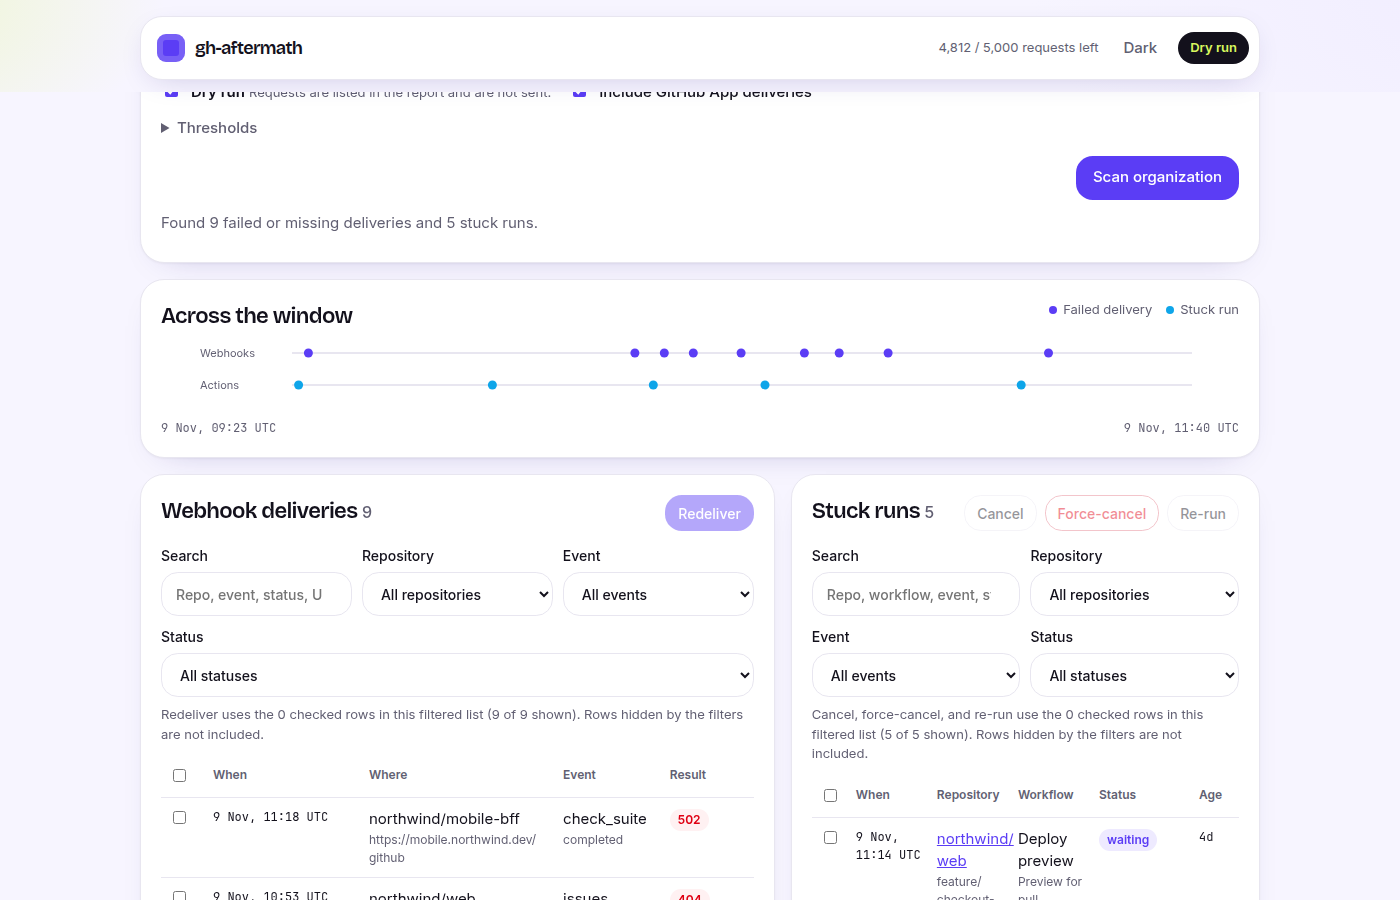
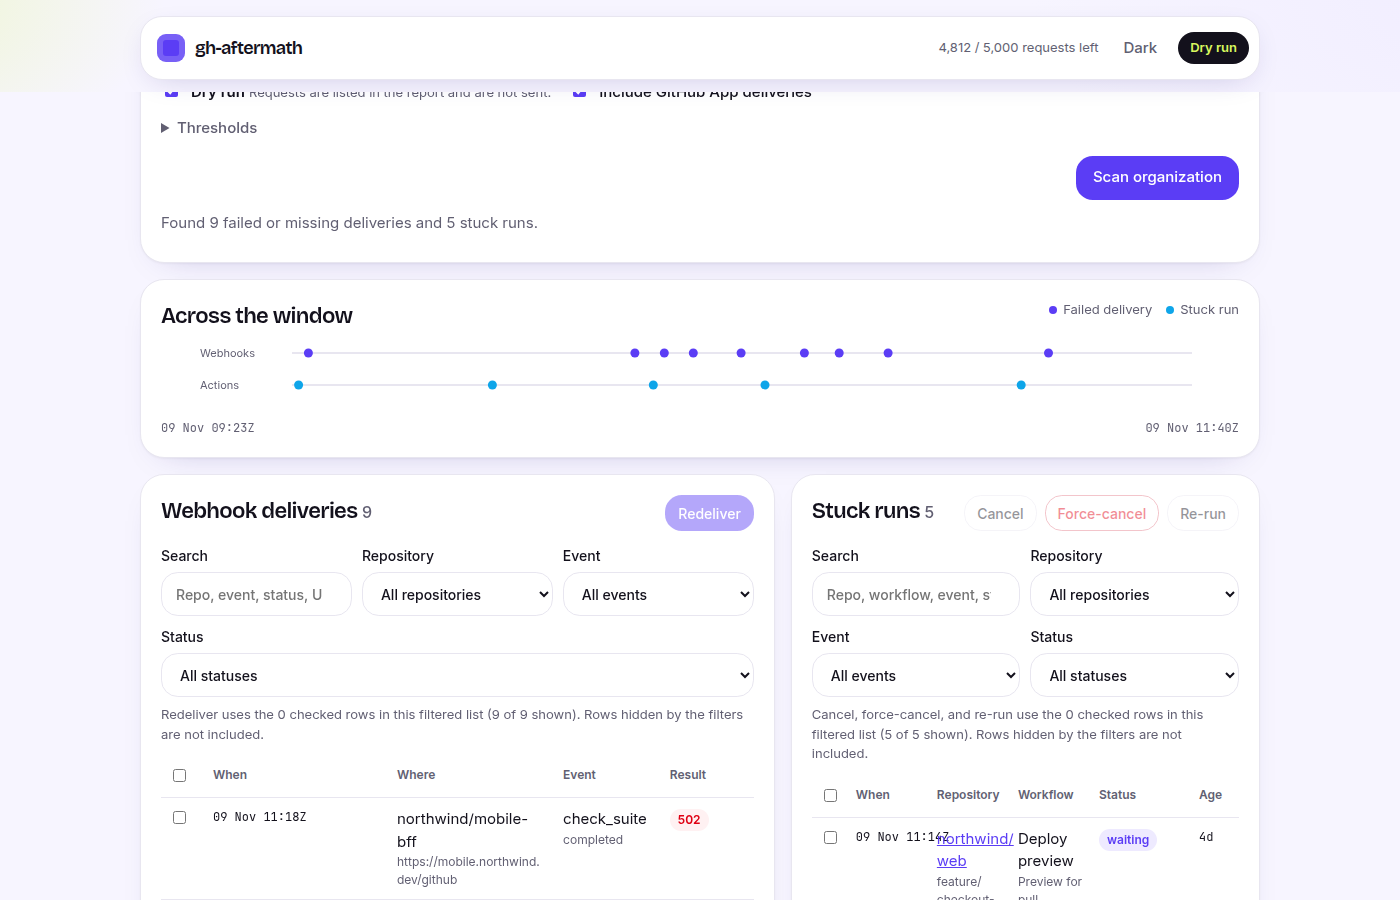
fix: keep out-of-window deliveries out of the demo scan
The demo gateway now applies the same window as the live client, and a scan refuses to redeliver a delivery that was not in that window. Times are printed as explicit UTC stamps.

diff --git a/tests/server.test.ts b/tests/server.test.ts
@@ -80,6 +80,19 @@ describe("demo server", () => {
     expect(body.markdown).toContain("Failed or missing deliveries: 9");
     expect(body.deliveries.some((delivery: { id: number }) => delivery.id === 801)).toBe(false);
     expect(body.deliveries.some((delivery: { id: number }) => delivery.id === 510)).toBe(false);
+    const from = Date.parse("2026-11-09T09:23:00.000Z");
+    const to = Date.parse("2026-11-09T11:40:00.000Z");
+    for (const delivery of body.deliveries as { deliveredAt: string }[]) {
+      const time = Date.parse(delivery.deliveredAt);
+      expect(time).toBeGreaterThanOrEqual(from);
+      expect(time).toBeLessThanOrEqual(to);
+    }
+    for (const run of body.runs as { createdAt: string; runStartedAt: string | null }[]) {
+      const time = Date.parse(run.runStartedAt || run.createdAt);
+      expect(time).toBeGreaterThanOrEqual(from);
+      expect(time).toBeLessThanOrEqual(to);
+    }
+    expect(body.deliveries.some((delivery: { deliveredAt: string }) => delivery.deliveredAt.startsWith("2026-11-09T10:53"))).toBe(true);
   });
 
   it("keeps the November 9 Actions window separate from the webhook window", async () => {
@@ -99,6 +112,36 @@ describe("demo server", () => {
     expect(body.counts).toMatchObject({ failedDeliveries: 2, stuckRuns: 2 });
     expect(body.runs.map((run: { id: number }) => run.id).sort()).toEqual([1009, 1010]);
     expect(body.deliveries.map((delivery: { id: number }) => delivery.id).sort()).toEqual([510, 511]);
+    const from = Date.parse("2026-11-09T18:07:00.000Z");
+    const to = Date.parse("2026-11-09T18:59:00.000Z");
+    for (const delivery of body.deliveries as { deliveredAt: string }[]) {
+      const time = Date.parse(delivery.deliveredAt);
+      expect(time).toBeGreaterThanOrEqual(from);
+      expect(time).toBeLessThanOrEqual(to);
+    }
+    for (const run of body.runs as { createdAt: string; runStartedAt: string | null }[]) {
+      const time = Date.parse(run.runStartedAt || run.createdAt);
+      expect(time).toBeGreaterThanOrEqual(from);
+      expect(time).toBeLessThanOrEqual(to);
+    }
+  });
+
+  it("does not redeliver a delivery outside the scanned window", async () => {
+    const application = app();
+    await scan(application);
+    const refused = await application.request("/api/execute", {
+      method: "POST",
+      headers: { "content-type": "application/json" },
+      body: JSON.stringify({
+        dryRun: true,
+        operations: [
+          { type: "redeliver", scope: "repo", owner: "northwind", repo: "checkout-api", hookId: 11, deliveryId: 510 },
+        ],
+      }),
+    });
+    const body = await refused.json();
+    expect(refused.status).toBe(400);
+    expect(body.error).toMatch(/outside the scanned window/);
   });
 
   it("includes the dated ping only when the window covers it", async () => {

diff --git a/src/demo/gateway.ts b/src/demo/gateway.ts
@@ -1,6 +1,8 @@
+import { isWithinWindow } from "../core/time.js";
 import type {
   RateLimitSnapshot,
   RawDelivery,
+  RawRun,
   RecoveryClient,
   RedeliverTarget,
   RunTarget,
@@ -36,29 +38,38 @@ export function createDemoGateway(options: DemoGatewayOptions = {}): ScanClient 
         .filter((hook) => hook.scope === "repo" && hook.owner === owner && hook.repo === repo)
         .map((hook) => ({ ...hook, events: [...hook.events] }));
     },
-    async listOrgDeliveries(_org, hookId, _window: TimeWindow) {
-      return state.deliveries.filter((delivery) => delivery.scope === "org" && delivery.hookId === hookId).map((d) => ({ ...d }));
+    async listOrgDeliveries(_org, hookId, window: TimeWindow) {
+      return state.deliveries
+        .filter(
+          (delivery) =>
+            delivery.scope === "org" && delivery.hookId === hookId && isWithinWindow(delivery.deliveredAt, window),
+        )
+        .map((delivery) => ({ ...delivery }));
     },
-    async listRepoDeliveries(owner, repo, hookId) {
+    async listRepoDeliveries(owner, repo, hookId, window) {
       return state.deliveries
         .filter(
           (delivery) =>
             delivery.scope === "repo" &&
             delivery.hookId === hookId &&
             delivery.owner === owner &&
-            delivery.repo === repo,
+            delivery.repo === repo &&
+            isWithinWindow(delivery.deliveredAt, window),
         )
         .map((delivery) => ({ ...delivery }));
     },
-    async listAppDeliveries() {
-      return state.deliveries.filter((delivery) => delivery.scope === "app").map((delivery) => ({ ...delivery }));
+    async listAppDeliveries(window) {
+      return state.deliveries
+        .filter((delivery) => delivery.scope === "app" && isWithinWindow(delivery.deliveredAt, window))
+        .map((delivery) => ({ ...delivery }));
     },
-    async listWorkflowRuns() {
+    async listWorkflowRuns(_org, window) {
       const now = new Date();
       const fresh = new Date(now.getTime() - 2 * 60 * 1000).toISOString();
-      return state.runs.map((run) => {
-        if (run.id !== 1006) return { ...run };
-        return { ...run, createdAt: fresh, updatedAt: fresh, runStartedAt: fresh };
+      return state.runs.flatMap((run) => {
+        const next: RawRun = run.id === 1006 ? { ...run, createdAt: fresh, updatedAt: fresh, runStartedAt: fresh } : { ...run };
+        const stamp = next.runStartedAt || next.createdAt;
+        return isWithinWindow(stamp, window) ? [next] : [];
       });
     },
     async rateLimit(): Promise<RateLimitSnapshot> {

diff --git a/src/ui/client.ts b/src/ui/client.ts
@@ -80,13 +80,7 @@ const clientProgram = `
   }
 
   function formatTime(iso) {
-    if (!iso) return "undated";
-    var date = new Date(iso);
-    if (Number.isNaN(date.getTime())) return iso;
-    var formatted = new Intl.DateTimeFormat("en-GB", {
-      month: "short", day: "numeric", hour: "2-digit", minute: "2-digit", hourCycle: "h23", timeZone: "UTC"
-    }).format(date);
-    return formatted + " UTC";
+    return formatUtcStamp(iso);
   }
 
   function formatAge(iso) {
@@ -357,7 +351,7 @@ const clientProgram = `
       ]);
       var row = el("tr", { className: checked ? "selected" : "" }, [
         el("td", {}, [box]),
-        el("td", { className: "mono", text: formatTime(delivery.deliveredAt) }),
+        el("td", { className: "mono when", text: formatTime(delivery.deliveredAt) }),
         el("td", {}, [
           el("span", { text: whereOf(delivery) }),
           delivery.targetUrl ? el("span", { className: "sub", text: softWrap(delivery.targetUrl) }) : null
@@ -406,7 +400,7 @@ const clientProgram = `
       var started = run.runStartedAt || run.createdAt;
       var link = el("a", { href: run.htmlUrl, target: "_blank", rel: "noreferrer", text: softWrap(run.owner + "/" + run.repo) });
       row.appendChild(el("td", {}, [box]));
-      row.appendChild(el("td", { className: "mono", text: formatTime(started) }));
+      row.appendChild(el("td", { className: "mono when", text: formatTime(started) }));
       row.appendChild(el("td", {}, [link, el("span", { className: "sub", text: softWrap(run.headBranch || "") })]));
       row.appendChild(el("td", {}, [el("span", { text: softWrap(run.name) }), run.displayTitle && run.displayTitle !== run.name ? el("span", { className: "sub", text: softWrap(run.displayTitle) }) : null]));
       row.appendChild(el("td", {}, [el("span", { className: pillClass, text: run.status })]));

diff --git a/tests/utc-display.test.ts b/tests/utc-display.test.ts
@@ -93,14 +93,19 @@ describe("UTC window fields", () => {
         console.error("preset", JSON.stringify(window));
         process.exit(7);
       }
-      const sandbox = { result: "" };
+      const sandbox = { result: "", stamps: null };
       vm.createContext(sandbox);
       vm.runInContext(embeddedLogic + "\\nresult = toUtcDateTimeLocal(new Date('2026-11-13T15:04:00.000Z'));", sandbox);
       if (sandbox.result !== shown) {
         console.error("embedded", sandbox.result);
         process.exit(8);
       }
-      console.log(JSON.stringify({ shown, sent, localHour: instant.getHours() }));
+      const stamps = {};
+      vm.runInContext(
+        embeddedLogic + "\\nstamps = { inside: formatUtcStamp('2026-11-09T10:53:44.000Z'), outside: formatUtcStamp('2026-11-09T18:53:00.000Z') };",
+        sandbox,
+      );
+      console.log(JSON.stringify({ shown, sent, localHour: instant.getHours(), stamps: sandbox.stamps }));
     `;
     const result = spawnSync(process.execPath, [tsxCli, "--eval", script], {
       cwd: root,
@@ -109,9 +114,15 @@ describe("UTC window fields", () => {
     });
     expect(result.stderr).toBe("");
     expect(result.status).toBe(0);
-    const parsed = JSON.parse(result.stdout) as { shown: string; sent: string; localHour: number };
+    const parsed = JSON.parse(result.stdout) as {
+      shown: string;
+      sent: string;
+      localHour: number;
+      stamps: { inside: string; outside: string };
+    };
     expect(parsed.localHour).not.toBe(15);
     expect(parsed.shown).toBe("2026-11-13T15:04");
+    expect(parsed.stamps).toEqual({ inside: "09 Nov 10:53Z", outside: "09 Nov 18:53Z" });
     expect(parsed.sent).toBe(parsed.shown);
   });
 });

diff --git a/src/server.ts b/src/server.ts
@@ -227,6 +227,21 @@ export function createApp(options: ServerOptions): Hono {
       const operations = parseOperations(body.operations);
       if (operations.length === 0) throw new Error("Select at least one delivery or workflow run.");
       assertCompatibleRunPlans(operations);
+      if (scan) {
+        for (const operation of operations) {
+          if (operation.type === "redeliver") {
+            if (!scan.deliveries.some((delivery) => delivery.id === operation.deliveryId)) {
+              throw new Error("That delivery is outside the scanned window, so it was not redelivered.");
+            }
+          } else if (
+            !scan.runs.some(
+              (run) => run.id === operation.runId && run.owner === operation.owner && run.repo === operation.repo,
+            )
+          ) {
+            throw new Error("That workflow run is outside the scanned window, so it was not changed.");
+          }
+        }
+      }
       const performed = await executeOperations(operations, active, {
         dryRun,
         concurrency: options.concurrency,

diff --git a/tests/gateway.test.ts b/tests/gateway.test.ts
@@ -21,6 +21,23 @@ function delivery(id: number, deliveredAt: string) {
 }
 
 describe("GitHub gateway", () => {
+  it("drops same-day deliveries that are outside the selected window", async () => {
+    const narrow = { from: "2026-11-09T09:23:00.000Z", to: "2026-11-09T11:40:00.000Z" };
+    const request: GitHubRequest = async () => ({
+      status: 200,
+      data: [
+        delivery(1, "2026-11-09T18:53:00.000Z"),
+        delivery(2, "2026-11-09T18:46:00.000Z"),
+        delivery(3, "2026-11-09T18:41:00.000Z"),
+        delivery(4, "2026-11-09T10:53:44.000Z"),
+      ],
+    });
+    const gateway = createRequestGateway({ request, perPage: 10, maxPages: 3 });
+    const rows = await gateway.listRepoDeliveries("acme", "web", 3, narrow);
+    expect(rows.map((row) => row.id)).toEqual([4]);
+    expect(rows[0]?.deliveredAt).toBe("2026-11-09T10:53:44.000Z");
+  });
+
   it("pages deliveries newest-first and stops once the window is passed", async () => {
     const calls: string[] = [];
     const request: GitHubRequest = async (route, params) => {

diff --git a/src/ui/logic-source.ts b/src/ui/logic-source.ts
@@ -1,5 +1,13 @@
 /** Plain browser script. Kept as text so the page does not depend on the bundler's function helpers. */
 export const logicSource = [
+  "function formatUtcStamp(iso) {",
+  "  if (!iso) return \"undated\";",
+  "  var date = new Date(iso);",
+  "  if (Number.isNaN(date.getTime())) return String(iso);",
+  "  var months = [\"Jan\", \"Feb\", \"Mar\", \"Apr\", \"May\", \"Jun\", \"Jul\", \"Aug\", \"Sep\", \"Oct\", \"Nov\", \"Dec\"];",
+  "  function pad(value) { return String(value).padStart(2, \"0\"); }",
+  "  return pad(date.getUTCDate()) + \" \" + months[date.getUTCMonth()] + \" \" + pad(date.getUTCHours()) + \":\" + pad(date.getUTCMinutes()) + \"Z\";",
+  "}",
   "function toUtcDateTimeLocal(date) {",
   "  function pad(value) { return String(value).padStart(2, \"0\"); }",
   "  return date.getUTCFullYear() + \"-\" + pad(date.getUTCMonth() + 1) + \"-\" + pad(date.getUTCDate()) + \"T\" + pad(date.getUTCHours()) + \":\" + pad(date.getUTCMinutes());",

diff --git a/src/ui/styles.ts b/src/ui/styles.ts
@@ -308,7 +308,8 @@ svg#timeline { width: 100%; height: 78px; display: block; margin-top: 8px; }
 table { width: 100%; border-collapse: collapse; }
 .deliveries { table-layout: fixed; }
 .deliveries th:nth-child(1) { width: 2.75rem; }
-.deliveries th:nth-child(2) { width: 9.75rem; }
+.deliveries th:nth-child(2) { width: 11.5rem; }
+.table-scroll td.when { white-space: nowrap; font-variant-numeric: tabular-nums; }
 .deliveries th:nth-child(4) { width: 18%; }
 .deliveries th:nth-child(5) { width: 5.75rem; }
 .runs { table-layout: fixed; width: 100%; }
